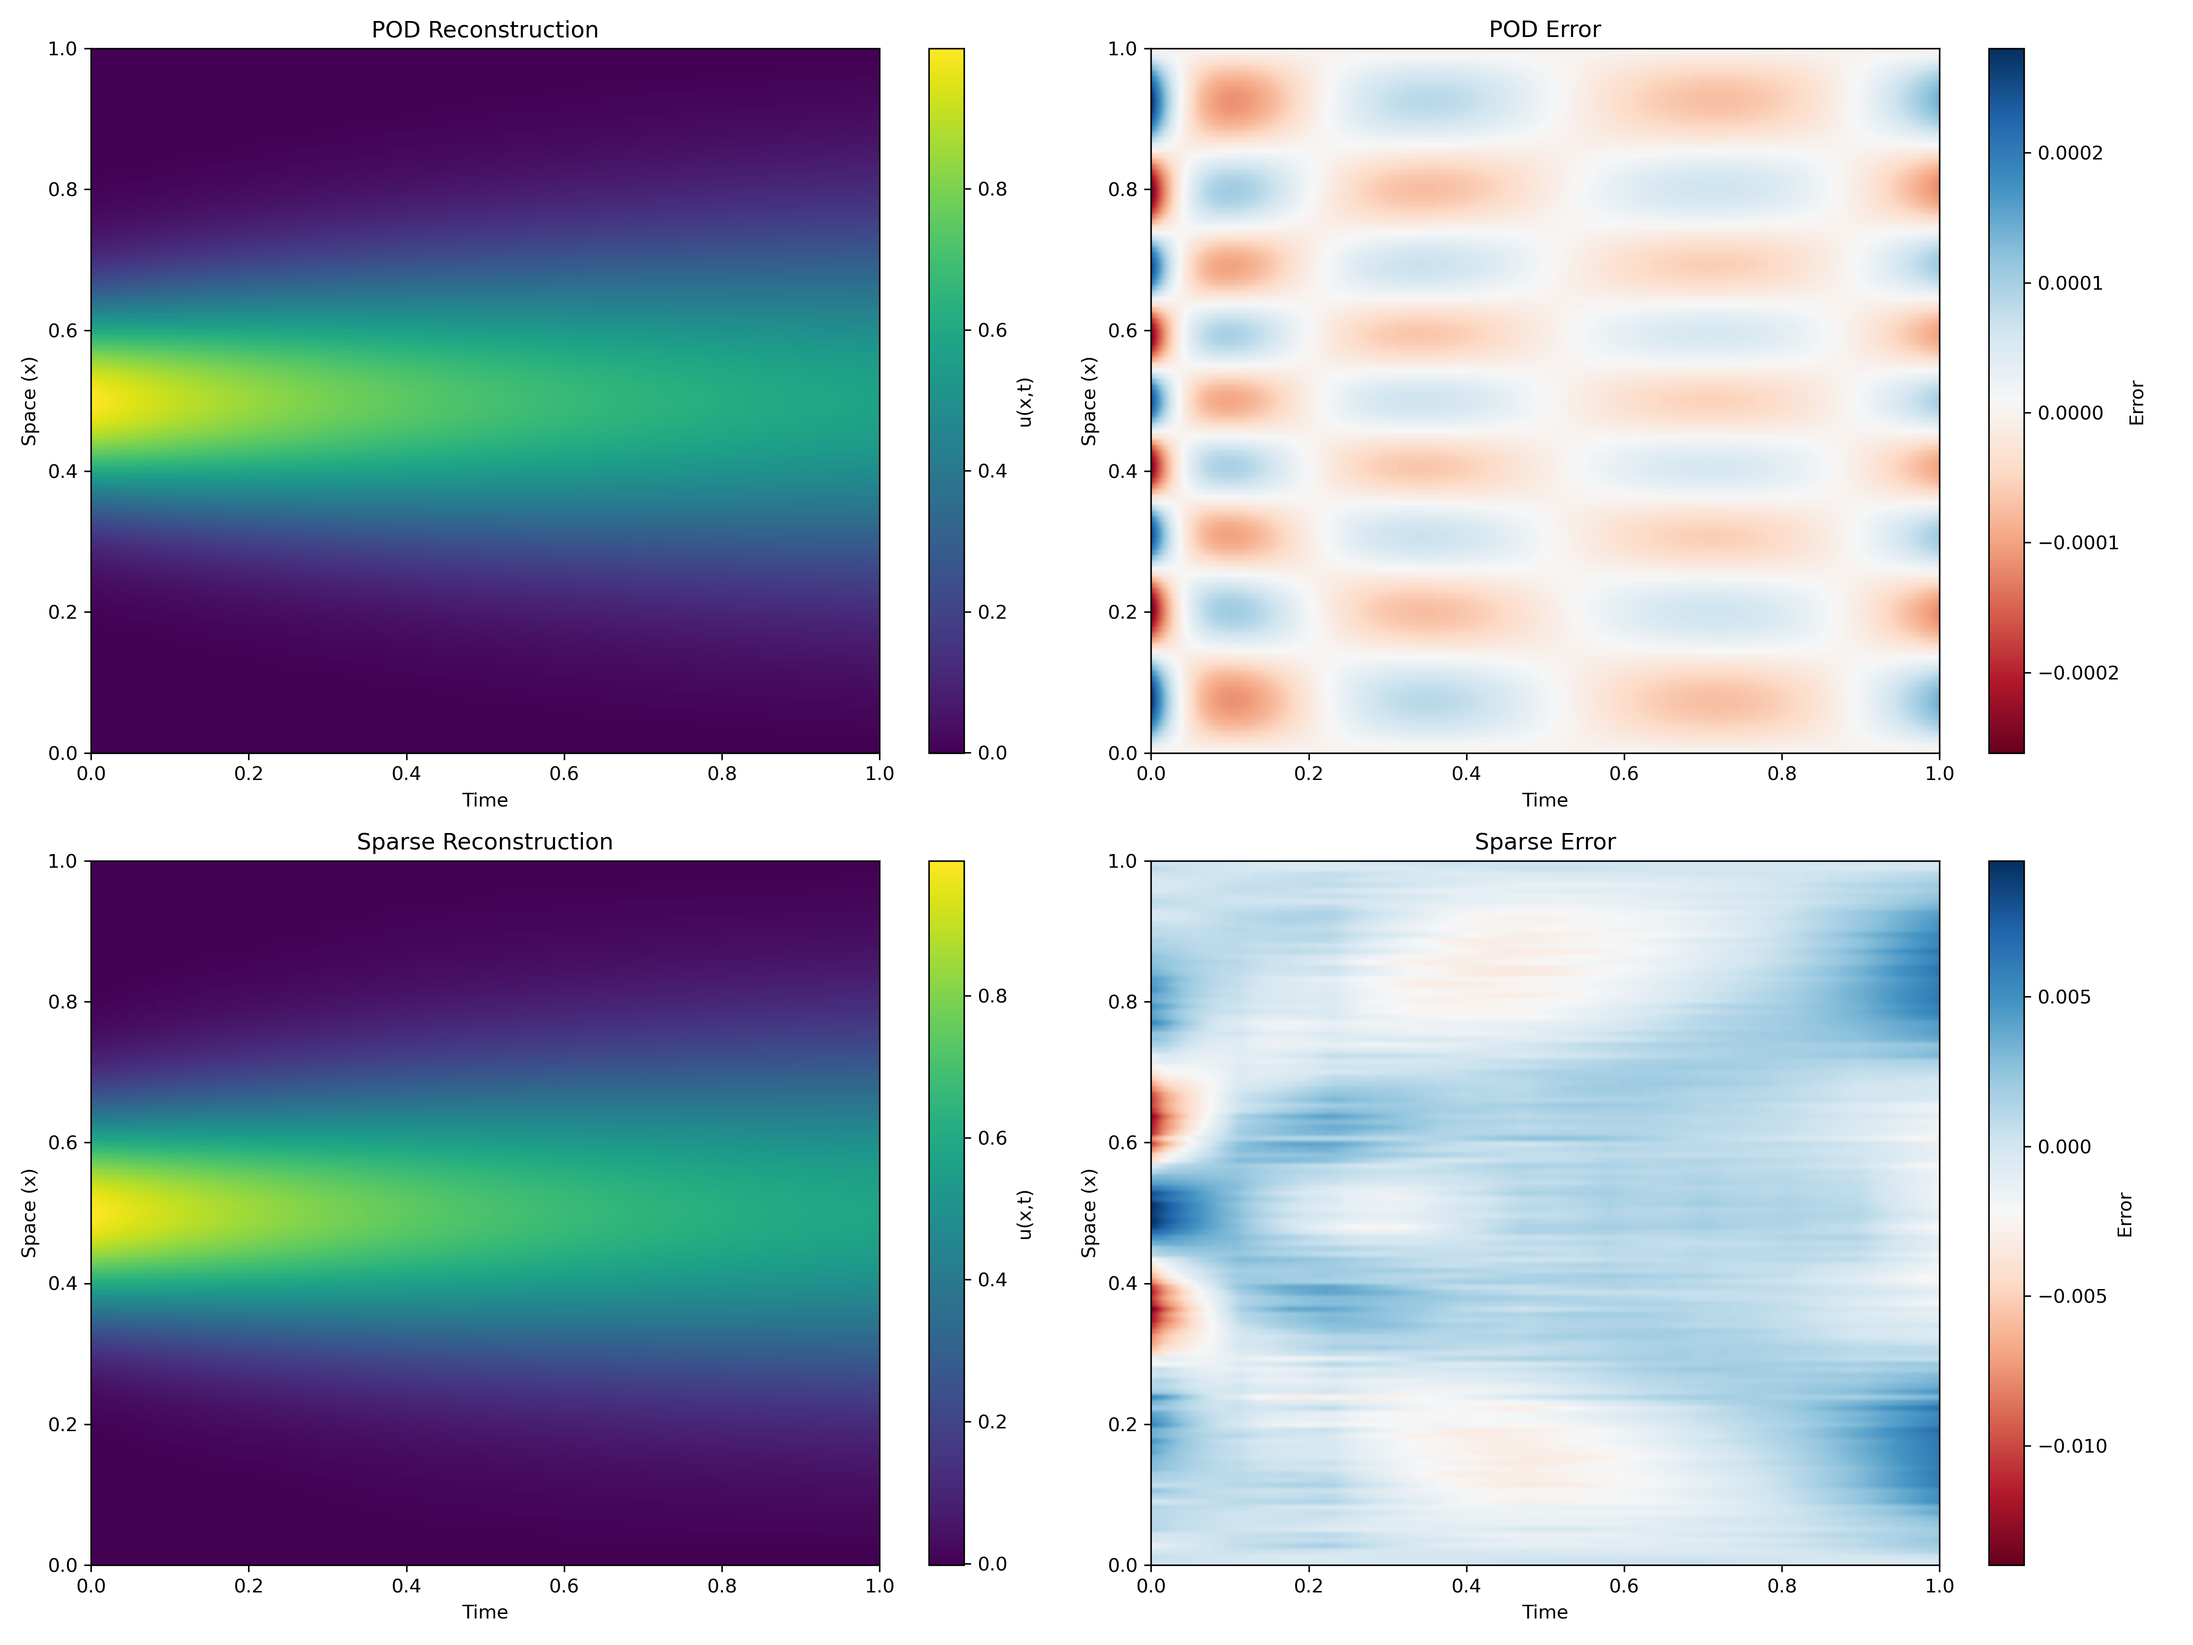
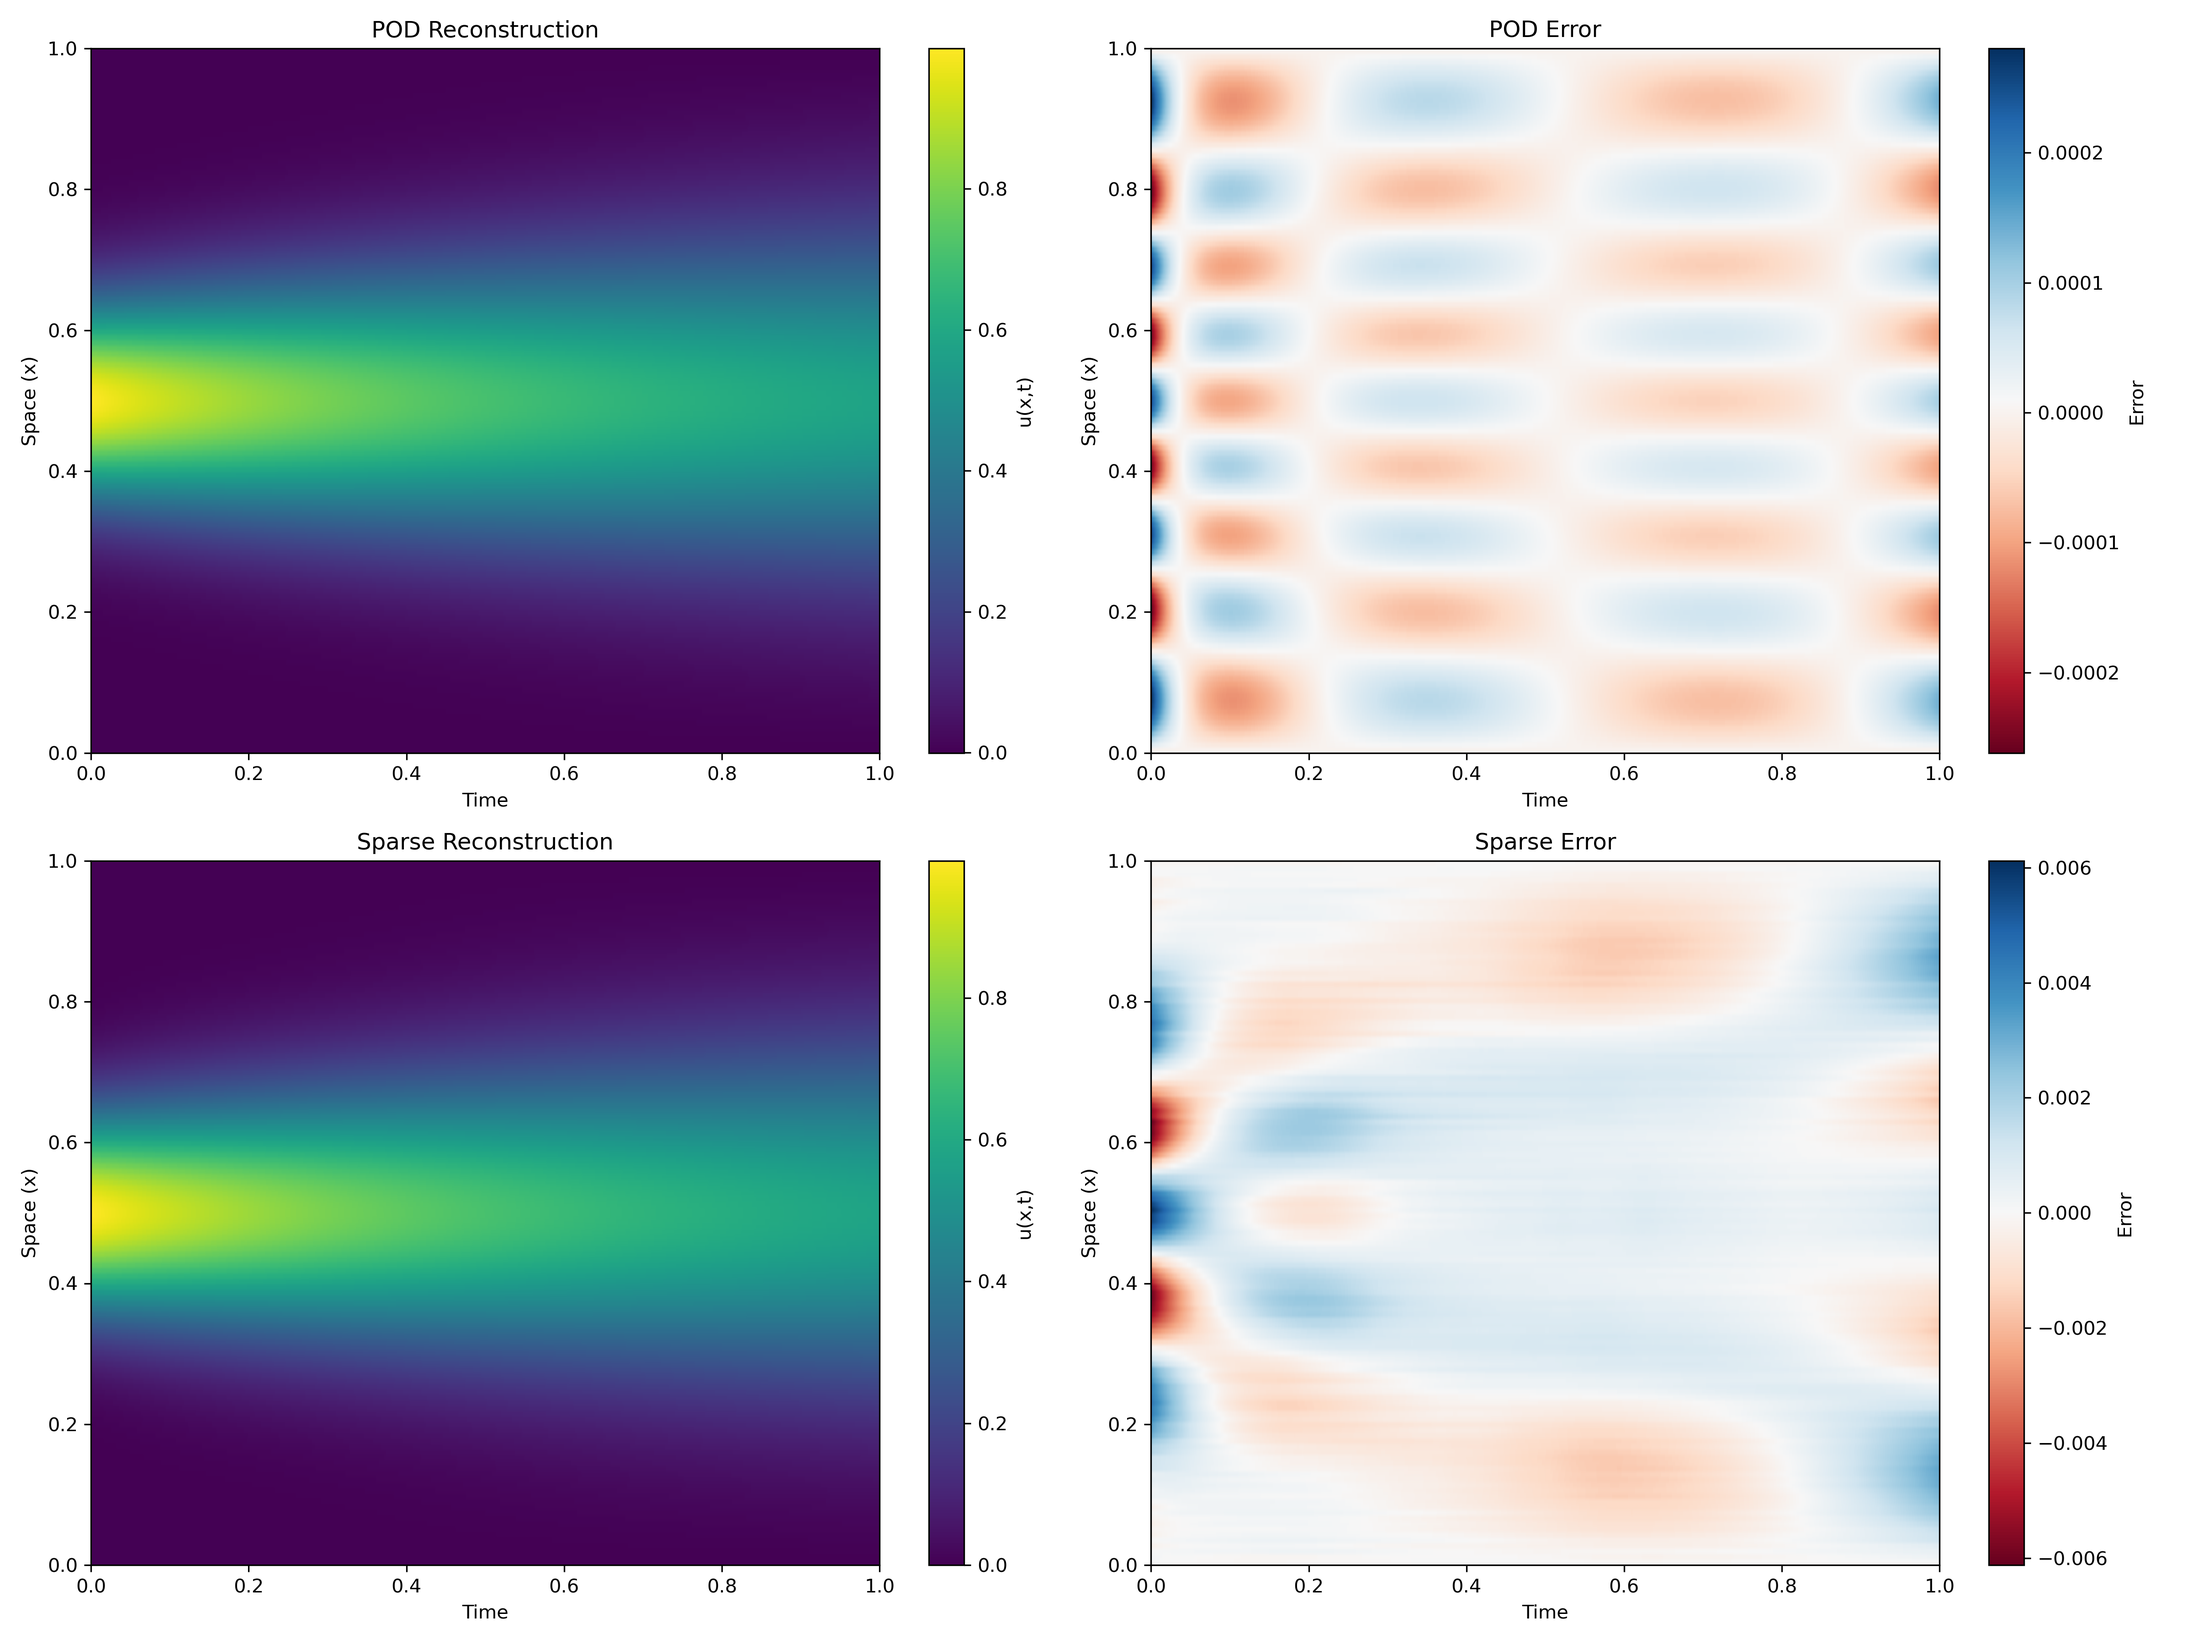
try new simple lambda selection using dfdt and z-method

diff --git a/experiments/heat1d.py b/experiments/heat1d.py
@@ -2,6 +2,8 @@
 import numpy as np
 import torch
 import matplotlib.pyplot as plt
+import kneed
+import kneeliverse
 
 # Add parent directory to path
 import sys
@@ -23,14 +25,14 @@ if __name__ == "__main__":
     print("Using device:", device)
     
     # Regularization parameter selection method
-    lambda_method = 'stability'  # 'path', 'cv', or 'stability'
+    lambda_method = 'cv'  # 'path', 'cv', or 'stability'
     
     # Common hyperparameters
     hidden_units_heat = [128, 8256]
     # hidden_units_heat = [20, 120, 400]
 
     # Parameter‐grid for CV or SS (you can customize)
-    lambdas_cv = np.logspace(-2.5, -1.2, 10)  
+    lambdas_cv = np.logspace(-2.1, -0.8, 12)  
     lambdas_ss = np.logspace(-2.1, -1.0, 50)  
     
     # Sanity check flag (plotting)
@@ -64,30 +66,131 @@ if __name__ == "__main__":
         hidden_units    = hidden_units_heat,
         M               = 5.0,
         lambda_method   = lambda_method,
-        network_type    = 'convolutional',    # Specify network type
-        kernel_size     = 8,                  # Conv-specific parameters
+        knee_method     = 'dfdt',
+        network_type    = 'feedforward',    # Specify network type
+        kernel_size     = 5,                  # Conv-specific parameters
         num_channels    = [64, 128, 64],      # Conv-specific parameters
         padding         = 'same',             # Conv-specific parameters
         optimizer       = 'Adam',
         nonzero_thresh  = 1e-6,
         r_max           = 10,           # max modes for constraint stopping
-        lam0            = 1e-4,         # only used if path
+        lam0            = 1e-3,         # only used if path
         epsilon         = 0.20,         # only used if path
-        B_path          = 100,          # epochs per λ for path or final fit
+        B_path          = 80,          # epochs per λ for path or final fit
         max_iters       = 100,          # max iterations for path
         lambdas_cv      = lambdas_cv,   # only used if cv
         k_folds         = 5,            # for cv
         num_epochs_cv   = 80,           # for cv
         lambdas_ss      = lambdas_ss,   # only used if stability
-        B_ss            = 5,            # subsamples per λ for stability
+        B_ss            = 2,            # subsamples per λ for stability
         pi_thresh       = 0.75,         # threshold for stability
-        num_epochs_ss   = 80,           # epochs per subsample for stability
+        num_epochs_ss   = 20,           # epochs per subsample for stability
         final_epochs_ss = 100,          # epochs for final fit after stability
         lr              = 1e-3,
         batch_size      = 64,
         device          = device,
         label           = "Heat Equation"
     )
+    
+    # #%% Get the data to compute knees 
+    # lambdas = np.array([freq['lambda'] for freq in freq_tab])
+    # loglam = np.log(lambdas)
+    # loglam_max, loglam_min = loglam.max(), loglam.min()
+    # rs = np.array([freq['nonzero_count'] for freq in freq_tab])
+    # rs_max, rs_min = max(rs), min(rs)
+    # llam_norm = []
+    # rs_norm = []
+    # for lam, r in zip(loglam, rs):
+    #     llam_norm.append((lam - loglam_min) / (loglam_max - loglam_min))
+    #     rs_norm.append((r - rs_min) / (rs_max - rs_min))
+    # llam_norm = np.array(llam_norm)
+    # rs_norm = np.array(rs_norm)
+    # data = np.stack((llam_norm, rs_norm), axis=1)
+    
+    # #%% curvature 
+    # knee_curv_idx = kneeliverse.curvature.multi_knee(data)
+    # knee_curv = llam_norm[knee_curv_idx]
+    # lam_knee_curv = np.exp(knee_curv * (loglam_max - loglam_min) + loglam_min)
+    # print("Elbow by curvature at λ ≃", lam_knee_curv)
+    # print("Number of selected modes at knee:", rs[knee_curv_idx])
+    
+    # #%% dfdt
+    # knee_dfdt_idx = kneeliverse.dfdt.multi_knee(data)
+    # knee_dfdt = llam_norm[knee_dfdt_idx]
+    # lam_knee_dfdt = np.exp(knee_dfdt * (loglam_max - loglam_min) + loglam_min)
+    # print("Elbow by dfdt at λ ≃", lam_knee_dfdt)
+    # print("Number of selected modes at knee:", rs[knee_dfdt_idx])    
+    # knee_ = llam_norm[knee_dfdt_idx]
+    # lam_stars = np.exp(knee_ * (loglam_max - loglam_min) + loglam_min)
+    # r_stars = rs[knee_dfdt_idx]
+    # # Pick the first one less than or equal to the budget r_max
+    # mask = np.where(r_stars <= 10, 1, 0)  # mask for r <= rmax
+    # i_star = np.nonzero(lam_stars * mask)[0][0]
+    # print(i_star)
+    # lam_star = lam_stars[i_star]
+    # r_star = r_stars[i_star]
+    # print("Optimal λ* at r ≤ 10 is λ* ≃", lam_star)
+    
+    # #%% kneedle
+    # knee_kneedle_idx = kneeliverse.kneedle.multi_knee(data, t1=0.1, t2=10)
+    # knee_kneedle = llam_norm[knee_kneedle_idx]
+    # lam_knee_kneedle = np.exp(knee_kneedle * (loglam_max - loglam_min) + loglam_min)
+    # print("Elbow by Kneedle at λ ≃", lam_knee_kneedle)
+    # print("Number of selected modes at knee:", rs[knee_kneedle_idx])
+    
+    # #%% lmethod 
+    # knee_lmethod_idx = kneeliverse.lmethod.multi_knee(data, t1=0.001, t2=5)
+    # knee_lmethod = llam_norm[knee_lmethod_idx]
+    # lam_knee_lmethod = np.exp(knee_lmethod * (loglam_max - loglam_min) + loglam_min)
+    # print("Elbow by Lmethod at λ ≃", lam_knee_lmethod)
+    # print("Number of selected modes at knee:", rs[knee_lmethod_idx])
+    
+    # #%% menger
+    # knee_menger_idx = kneeliverse.menger.multi_knee(data, t1=0.001, t2=5)
+    # knee_menger = llam_norm[knee_menger_idx]
+    # lam_knee_menger = np.exp(knee_menger * (loglam_max - loglam_min) + loglam_min)
+    # print("Elbow by Menger at λ ≃", lam_knee_menger)
+    # print("Number of selected modes at knee:", rs[knee_menger_idx])
+    
+    # #%% z-method
+    # knee_zmethod_idx = kneeliverse.zmethod.knees2(data)
+    # knee_zmethod = llam_norm[knee_zmethod_idx]
+    # lam_knee_zmethod = np.exp(knee_zmethod * (loglam_max - loglam_min) + loglam_min)
+    # print("Elbow by Z-method at λ ≃", lam_knee_zmethod)
+    # print("Number of selected modes at knee:", rs[knee_zmethod_idx])
+    
+    # #%% Plot the knee plot using Kneed
+    # # normalize log‐λ and k to [0,1]
+    # lambdas = [freq['lambda'] for freq in freq_tab]
+    # loglam = np.log(lambdas)
+    # loglam_max, loglam_min = loglam.max(), loglam.min()
+    # rs = [freq['l1_b'] for freq in freq_tab]
+    # rs_max, rs_min = max(rs), min(rs)
+    # llam_norm = []
+    # rs_norm = []
+    # for lam, r in zip(loglam, rs):
+    #     llam_norm.append((lam - loglam_min) / (loglam_max - loglam_min))
+    #     rs_norm.append((r - rs_min) / (rs_max - rs_min))
+    # kl = kneed.KneeLocator(
+    #     rs_norm, llam_norm, S=10, curve='convex', direction='decreasing',
+    #     interp_method='polynomial', polynomial_degree=9
+    # )
+    # # kl.knee is in normalized x; map back to λ:
+    # lam_knee = np.exp(kl.knee_y * (loglam_max - loglam_min) + loglam_min)
+    # print("Elbow by Kneedle at λ ≃", lam_knee) 
+    # # Plotting
+    # kl.plot_knee_normalized()
+    
+    # #%%
+    # rs = np.array([freq['nonzero_count'] for freq in freq_tab])
+    # dks   = np.diff(rs)
+    # dlogl = np.diff(loglam)
+    # slopes = dks / dlogl
+    # rmax = 10
+    # mask = np.where(rs[1:] <= rmax, 1, 0)  # mask for r <= rmax
+    # i_elbow = np.argmin(slopes * mask)     # most negative slope
+    # lambda_elbow = lambdas[i_elbow+1]
+    # print("Elbow at λ ≃", lambda_elbow)
     
     #%% Plot L-curve
     if lambda_method == 'path':
